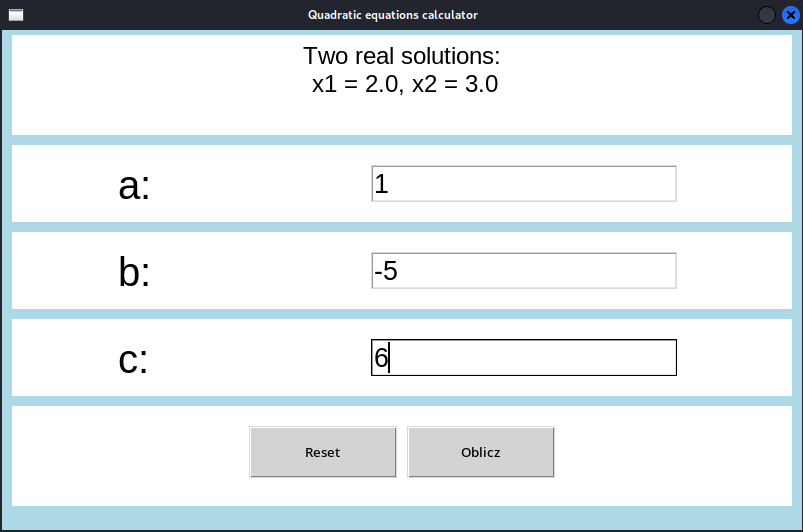
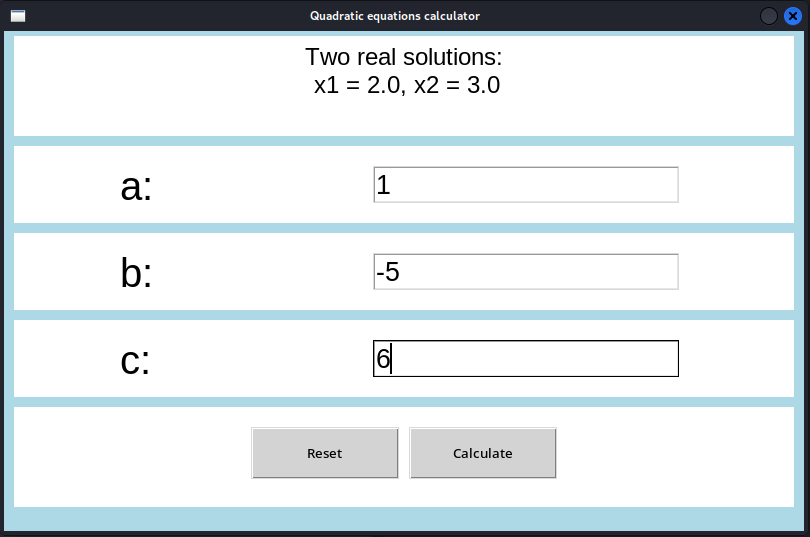
Complete validation and correct translation

diff --git a/quadratic_calculator.py b/quadratic_calculator.py
@@ -77,8 +77,13 @@ def calculate_and_reset(entry_a, entry_b, entry_c, instruction_label):
         b = float(entry_b.get())
         c = float(entry_c.get())
 
-        if a == 0:
-            outcome = "Coefficient a cannot be 0"
+        if a == 0 and b != 0 and c != 0:
+            outcome = f"Linear equation. x = {-c/b}"
+        elif a == 0 and b == 0 and c != 0:
+            outcome = "No solutions. Contradictory equation"
+        elif a == 0 and b == 0 and c == 0:
+            outcome = "Identity equation 0 = 0"
+
         else:
             delta = pow(b, 2) - 4 * a * c
             sqrt_delta = cmath.sqrt(delta)
@@ -113,7 +118,7 @@ def calculate_and_reset(entry_a, entry_b, entry_c, instruction_label):
     reset_button = tk.Button(button_frame, text="Reset", command=reset, bg='light grey', width=15, height=2)
     reset_button.pack(side=tk.LEFT, padx=(10, 5), pady=(0, 0))  # Ustawiony odstęp pionowy
 
-    calc_button = tk.Button(button_frame, text="Oblicz", command=calculate, bg='light grey', width=15, height=2)
+    calc_button = tk.Button(button_frame, text="Calculate", command=calculate, bg='light grey', width=15, height=2)
     calc_button.pack(side=tk.LEFT, padx=(5, 10), pady=(0, 0))  # Ustawiony odstęp pionowy
 
 
